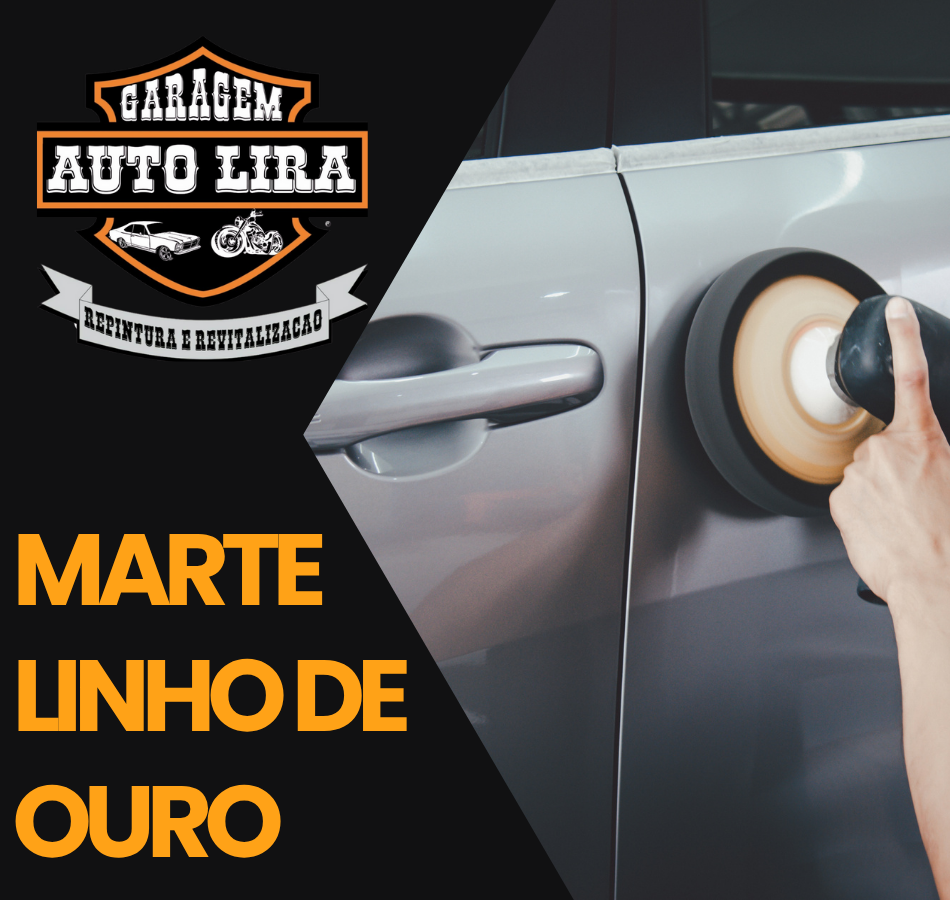
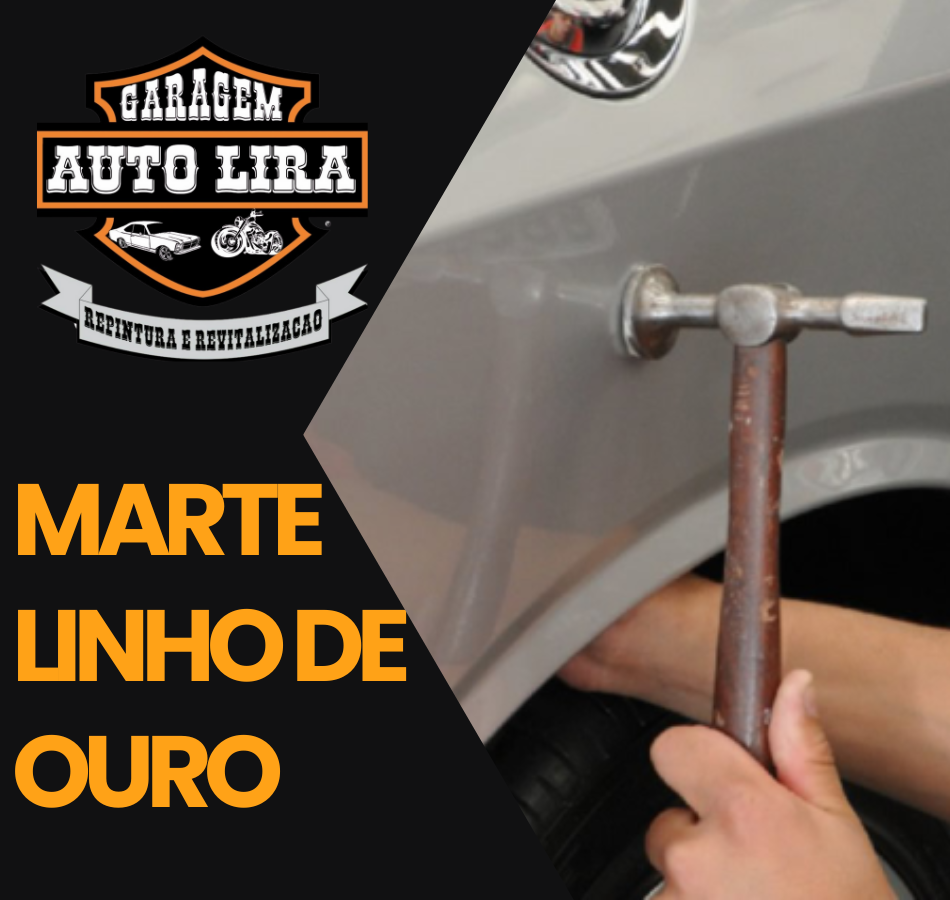
foont

diff --git a/servicos.html b/servicos.html
@@ -1,0 +1,65 @@
+<!DOCTYPE html>
+<html lang="pt-br">
+<head>
+    <meta charset="UTF-8">
+    <meta name="viewport" content="width=device-width, initial-scale=1.0">
+    <title>Auto Lira</title>
+    
+    <link rel="stylesheet" href="style.css">
+
+    <link rel="stylesheet" href="https://cdnjs.cloudflare.com/ajax/libs/font-awesome/6.5.2/css/all.min.css" />
+    
+    <link rel="stylesheet" href="https://cdn.jsdelivr.net/npm/swiper@11/swiper-bundle.min.css"/>
+
+    
+
+</head>
+<body>
+
+    <header>
+        <div class="logo-principal-container">
+            <img src="./imagens/Screenshot_1.png" alt="Logo Portimus Mecânica Automotiva" >
+        </div>
+
+        <div class="cabecalho-contatos">
+            <div class="top-bar">
+                <div class="funcionamento">
+                    <i class="fa-regular fa-clock"></i>
+                    <span>Funcionamento: Seg - Sexta 8:00 - 18:00</span>
+                </div>
+                <div class="redes-sociais">
+                    <a href="#" aria-label="Link para o Facebook"><i class="fa-brands fa-facebook-f"></i></a>
+                    <a href="#" aria-label="Link para o Instagram"><i class="fa-brands fa-instagram"></i></a>
+                    <a href="#" aria-label="Link para o YouTube"><i class="fa-brands fa-youtube"></i></a>
+                </div>
+            </div>
+
+            <div class="cabecalho-principal">
+                <div class="contatos-container">
+                    <div class="contato-item">
+                        <i class="fa-solid fa-phone icone"></i>
+                        <div class="contato-info">
+                            <span class="contato-label">Ligue</span>
+                            <a href="tel:1233084050" class="contato-numero">(12) 3308.4050</a>
+                        </div>
+                    </div>
+                    <div class="contato-item">
+                        <i class="fa-brands fa-whatsapp icone"></i>
+                        <div class="contato-info">
+                            <a href="https://wa.me/551233084050" class="contato-numero">(12) 3308.4050</a>
+                            <a href="https://wa.me/5512974104467" class="contato-numero">(12) 97410.4467</a>
+                        </div>
+                    </div>
+                </div>
+            </div>
+        </div>
+    </header>
+
+    <nav class="menu">
+         <ul>
+            <li><a href="http://127.0.0.1:5500/index.html#servicos__link" class="texto__menu">SERVIÇOS</a></li>
+            <li><a href="http://127.0.0.1:5500/index.html#sobre__link" class="texto__menu">SOBRE NÓS</a></li>
+            <li><a href="http://127.0.0.1:5500/index.html#lozalizacao__link"  class="texto__menu">LOCALIZAÇÃO</a></li>
+            <li><a href="http://127.0.0.1:5500/index.html#agendamento__link" class="texto__menu">AGENDAMENTO</a></li>
+        </ul>
+    </nav>

diff --git a/index.html b/index.html
@@ -105,25 +105,25 @@
                     <img src="./imagens/funilaria.png" alt="" class="imagem__container1">
                     
                     <p>Somos especialista o maior especialista de funilaria da região , com anos de experiencia.</p>
-                    <a href="" class="slide-button">Conheça tudo sobre a nossa funilaria!</a>
+                    <a href="servicos.html" target="_blank" class="slide-button">Conheça tudo sobre a nossa <span class="laranja2">funilaria!</span></a>
                 </div>
 
                 <div class="container1">
                     <img src="./imagens/polimento.png" alt="" class="imagem__container1">
-                    <p>Somos especialista o maior especialista de funilaria da região , com anos de experiencia.</p>
-                    <a href=""class="slide-button">Conheça tudo sobre a nossa funilaria!</a>
+                    <p>Somos especialista o maior especialista de polimento da região , com anos de experiencia.</p>
+                    <a href="servicos.html" target="_blank"class="slide-button">Conheça tudo sobre a nosso <span class="laranja2">Polimento!</span></a>
                 </div>
 
                 <div class="container1">
                     <img src="./imagens/revitalização.png" alt="" class="imagem__container1">
-                    <p>Somos especialista o maior especialista de funilaria da região , com anos de experiencia.</p>
-                    <a href=""class="slide-button">Conheça tudo sobre a nossa funilaria!</a>
+                    <p>Somos especialista o maior especialista de revitalização da região , com anos de experiencia.</p>
+                    <a href="servicos.html" target="_blank" class="slide-button">Conheça tudo sobre a nossa <span class="laranja2">Revitalização!</span></a>
                 </div>
 
                 <div class="container1">
                     <img src="./imagens/martelinho.png" alt="" class="imagem__container1">
-                    <p>Somos especialista o maior especialista de funilaria da região , com anos de experiencia.</p>
-                    <a href=""class="slide-button">Conheça tudo sobre a nossa funilaria!</a>
+                    <p>Somos especialista o maior especialista de martelinho de ouro da região , com anos de experiencia.</p>
+                    <a href="servicos.html" target="_blank" class="slide-button">Conheça tudo sobre a nosso <span class="laranja2">Martelinho de Ouro!</span></a>
                 </div>
             </div>
           

diff --git a/style.css b/style.css
@@ -341,6 +341,13 @@ body {
 }
 
 
+.laranja2{
+    color: #111112;
+}
+
+.laranja2:hover{
+    color: #ffa217;
+}
 
 
 /* ==========================================================================
